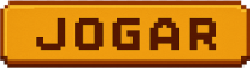
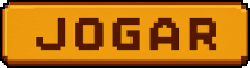
pequenas modificações nos icones do menu.

Changed region(s): [[0.0, 0.0, 1.0, 1.0]]

diff --git a/js/sceneMenu.js b/js/sceneMenu.js
@@ -28,13 +28,40 @@ class SceneMenu extends Phaser.Scene {
             this.bgMenu.setPosition(gameSize.width /  2,  gameSize.height / 2);
         });
 
-        // Engrenagem (botão configurações)
-        this.add.image(40, 40, 'configIcon').setScale(0.7).setInteractive();
+        // Engrenagem (botão configurações) e animação
+        const btnConfig = this.add.image(40, 40, 'configIcon').setScale(0.7).setInteractive();
+
+        btnConfig.on('pointerover', () => {
+            btnConfig.setScale(0.8);
+
+            this.tweens.add({
+                targets: btnConfig,
+                rotation: btnConfig.rotation + (Math.PI * 2),
+                duration: 500,
+                ease: 'Power2'
+            });
+        });
+
+        btnConfig.on('pointerout', () => {
+            btnConfig.setScale(0.7);
+
+            this.tweens.killTweensOf(btnConfig);
+        });
 
         // botão audio
         let audioStatus = Array('audioDesmutado', 'audioMutado');
         let audioIndex = 0;
         let btnAudio = this.add.image(this.scale.width-40, 40, audioStatus[audioIndex]).setScale(0.7).setInteractive();
+
+        // animação botão audio
+
+        btnAudio.on('pointerover', () => {
+            btnAudio.setScale(0.8);
+        });
+
+        btnAudio.on('pointerout', () => {
+            btnAudio.setScale(0.7);
+        });
 
         // clique botão audio
         btnAudio.on('pointerdown', () => {
@@ -46,6 +73,28 @@ class SceneMenu extends Phaser.Scene {
         this.add.image(this.scale.width/2, this.scale.height/2-80, 'logo').setScale(1.2);
         // botão jogar
         const btnJogar = this.add.image(this.scale.width/2, this.scale.height/2+250, 'btnJogar').setInteractive();
+
+        // destaque btn jogar
+
+        btnJogar.on('pointerover', () => {
+            this.tweens.add({
+                targets: btnJogar,
+                scaleX: 1.1,
+                scaleY: 1.1,
+                duration: 200,
+                ease: 'Powe2'
+            });
+        });
+
+        btnJogar.on('pointerout', () => {
+            this.tweens.add({
+                targets: btnJogar,
+                scaleX: 1.0,
+                scaleY: 1.0,
+                duration: 200,
+                ease: 'Powe2'
+            });
+        });
 
         // clique no botão jogar
         btnJogar.on('pointerdown', () => {

diff --git a/js/sceneGame.js b/js/sceneGame.js
@@ -94,12 +94,6 @@ class SceneGame extends Phaser.Scene{
             repeat: -1
         });
 
-
-
-        // Inimigos (lixo)
-
-        let inimigos = Array('inimigoA', 'inimigoB', 'inimigoC', 'inimigoD', 'inimigoE', 'inimigoF', 'inimigoG', 'inimigoH', 'inimigoI', );
-
         // configuração dos inimigos
         this.inimigosConfig = [
             {key: 'inimigoA', vida: 30, velocidade: 80, pontos: 3},
@@ -180,7 +174,7 @@ class SceneGame extends Phaser.Scene{
         // tecla espaço
         this.spaceKey = this.input.keyboard.addKey(Phaser.Input.Keyboard.KeyCodes.SPACE);
 
-        // raguste da tela
+        // reajuste da tela
         this.scale.on('resize', (gameSize) => {
             this.bg.setSize(gameSize.width, gameSize.height);
             this.bg.setPosition(gameSize.width /  2,  gameSize.height / 2);
